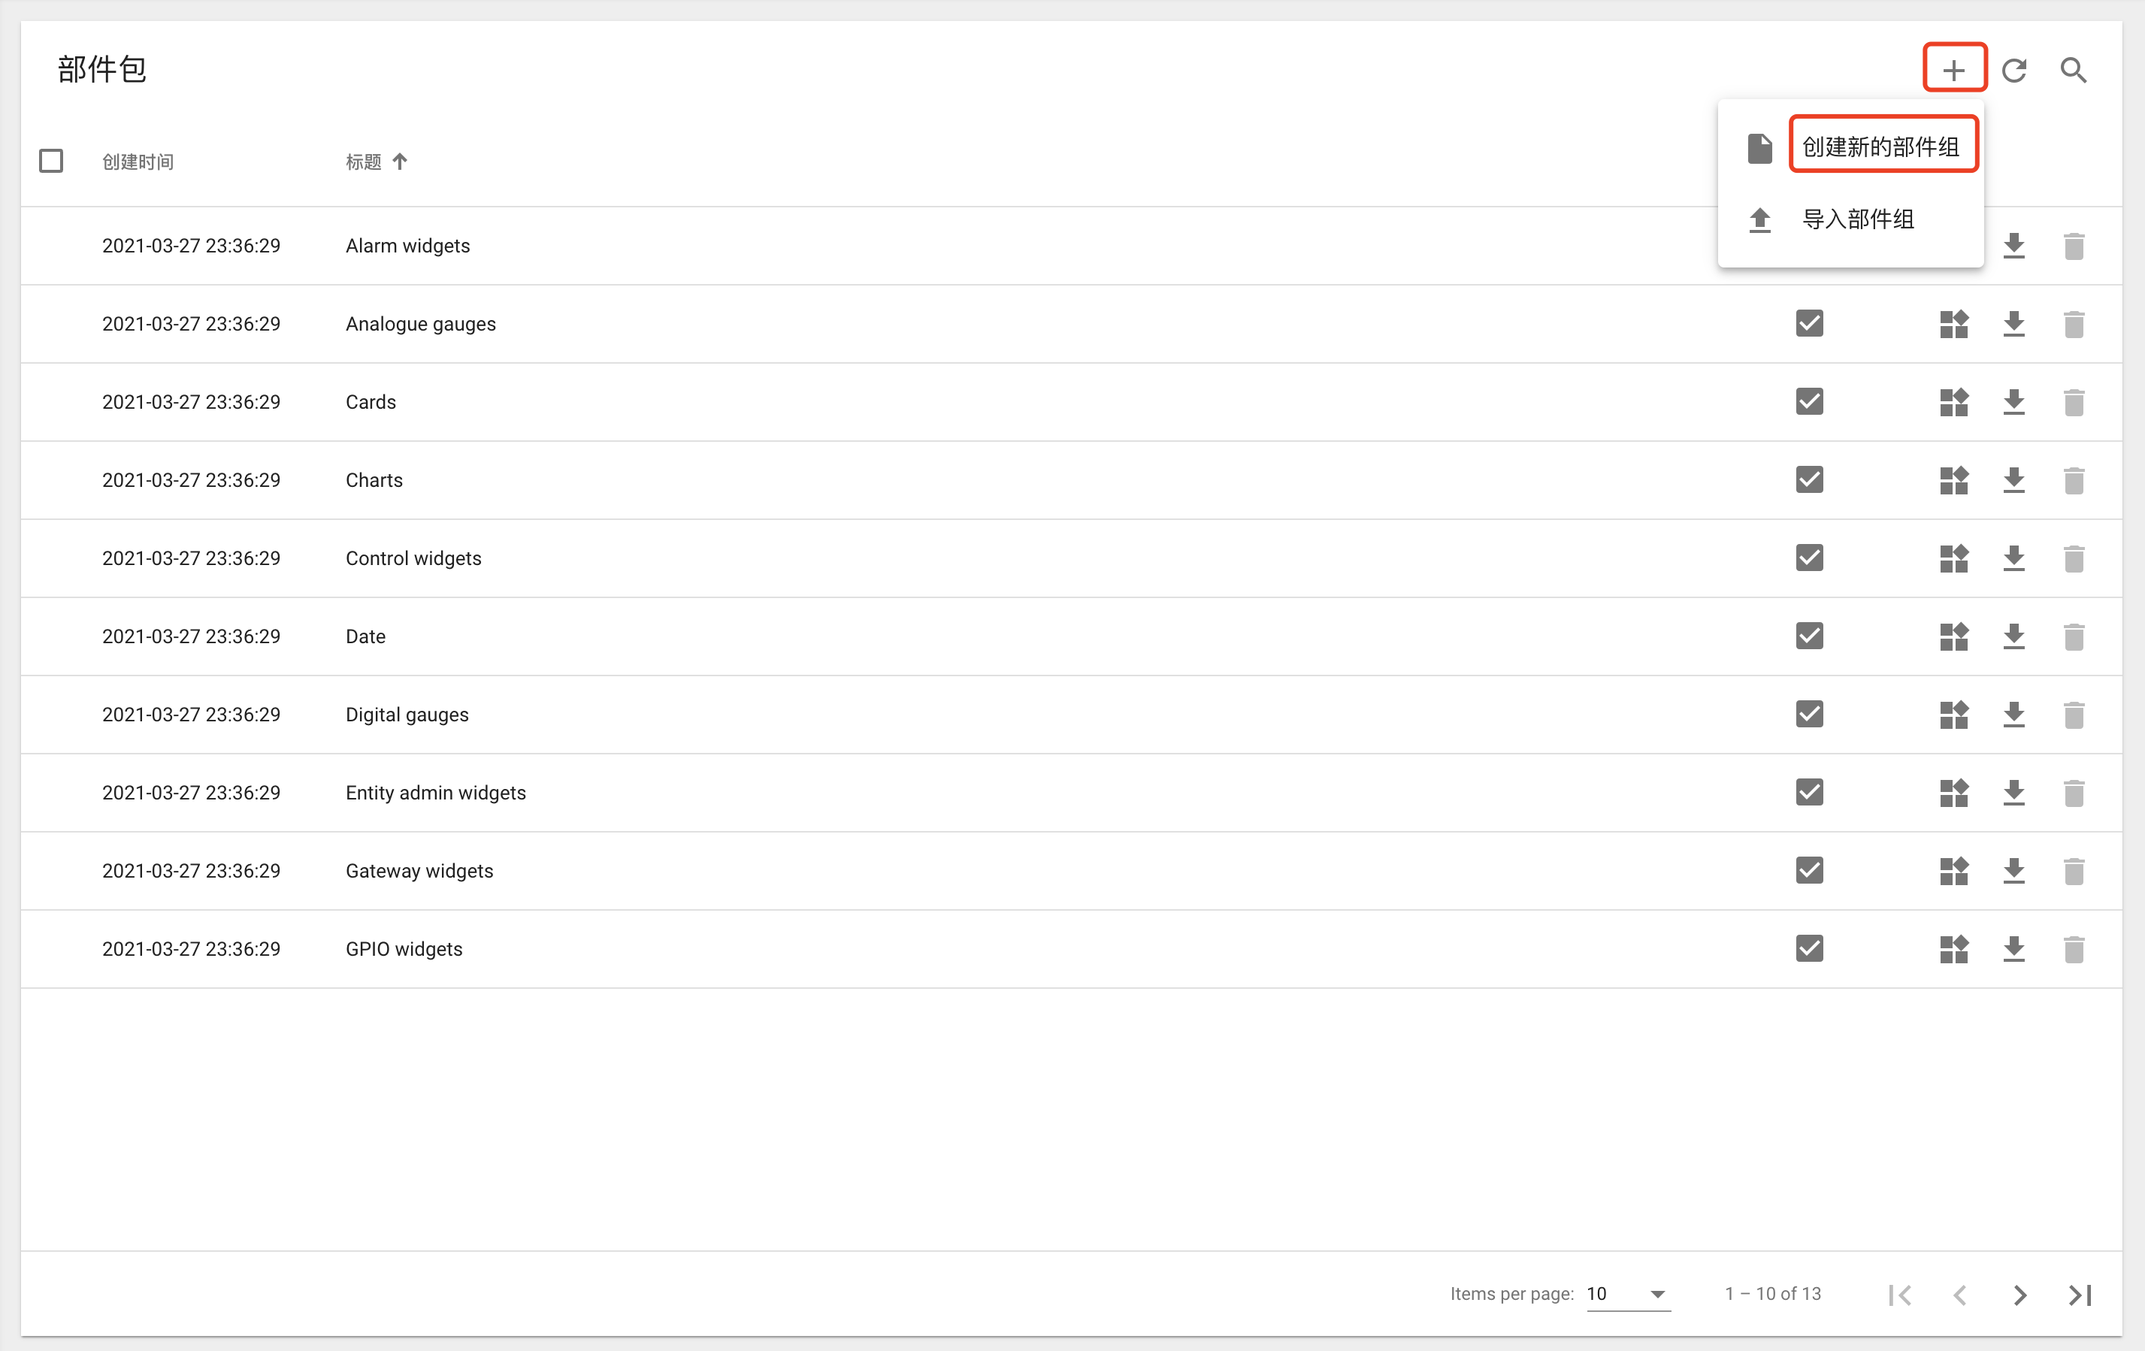
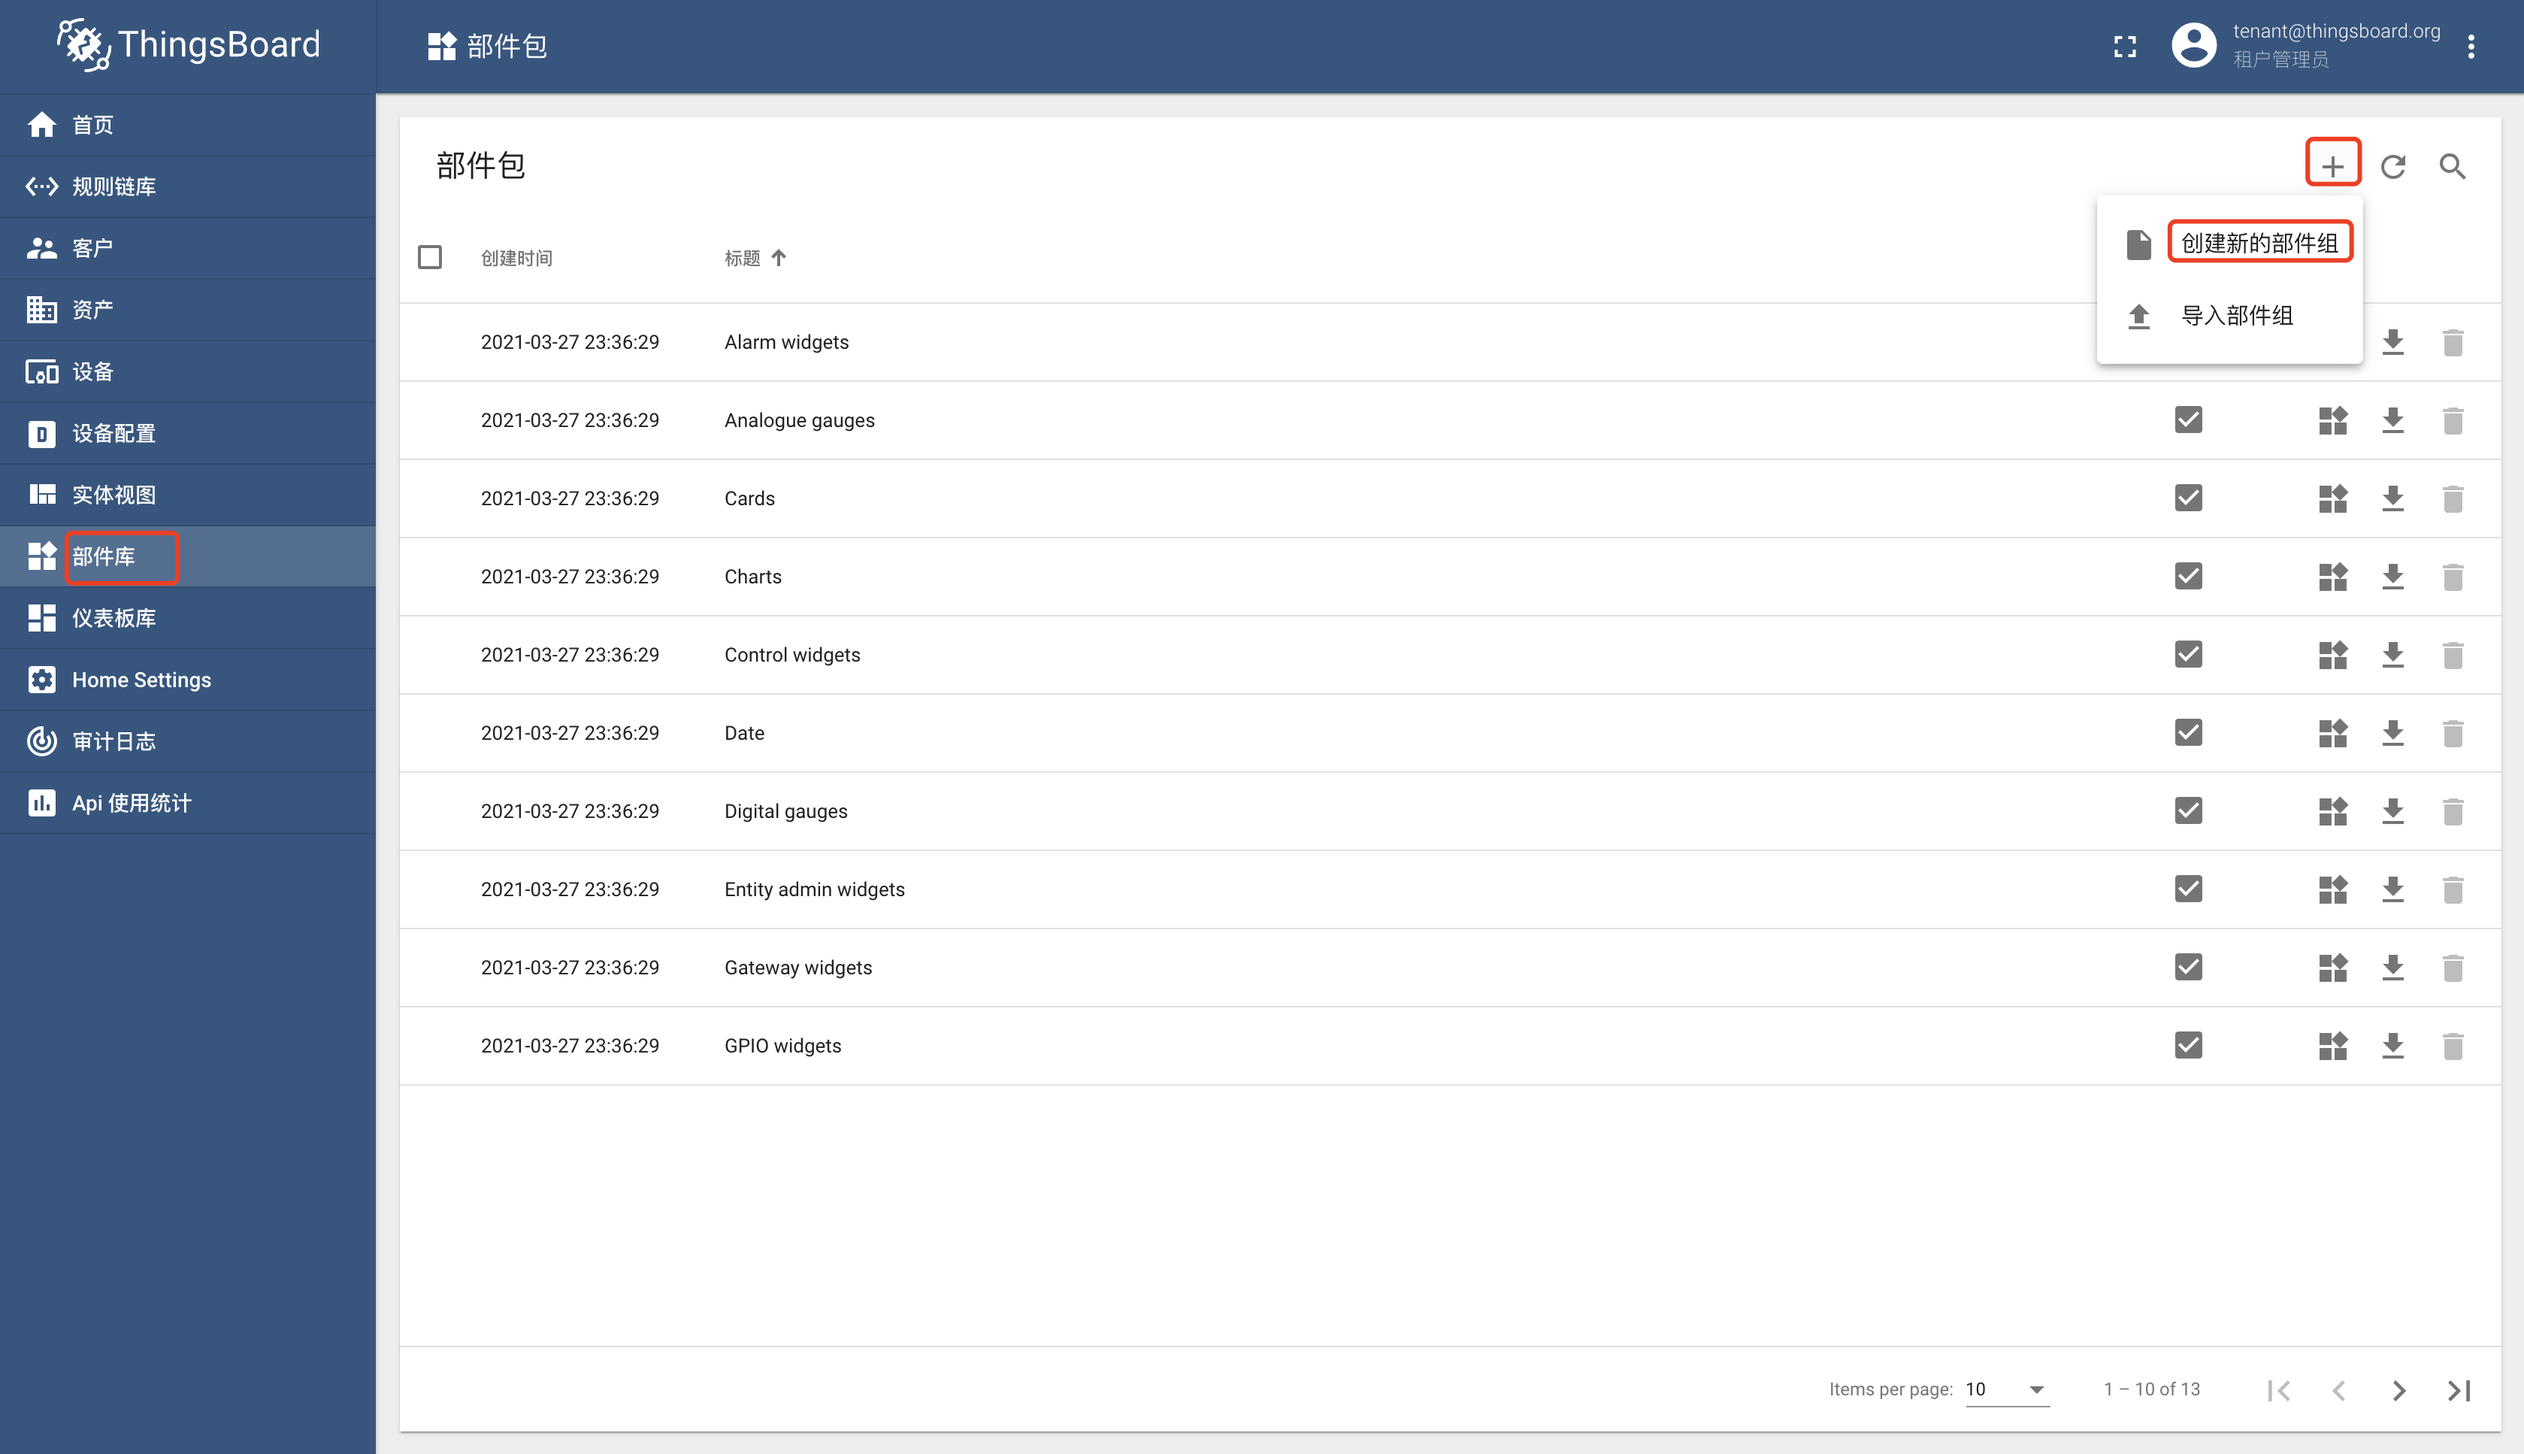
update dashboard md

diff --git a/doc/仪表盘.md b/doc/仪表盘.md
@@ -1,44 +1,78 @@
 #### 环境准备
 
-- 已经编译且能成功运行的代码环境，可参考前作。
+- 已经编译且能成功运行的代码环境，可参考前作
 - IDE Idea或Eclipse，本文使用Idea
+- [MqttBox](http://workswithweb.com/mqttbox.html)，一个Mqtt客户端
 - 支持Html5的浏览器，本文使用Chrome
 
 #### 描述
 
-用于数据展示，使用部件库中部件或自定义部件（需遵循部件开发规范）形成可定制的页面。
+仪表盘用于数据展示，使用部件库中部件或自定义部件（需遵循部件开发规范）形成灵活可定制化页面。
 
 #### 新建
 
+运行程序，使用`tenant@thingsboard.org`账号登录系统，点击左侧菜单`仪表盘库`，点击右上角`+`号，选择`创建新的仪表盘`。
+![仪表盘新建](../image/仪表盘新建.png)
+
+输入标题`我的仪表盘`，点击`添加`按钮。
+![仪表盘添加](../image/仪表盘添加.png)
+
+在仪表盘列表中可以找到仪表盘`我的仪表盘`。
+![仪表盘列表](../image/仪表盘列表.png)
 
 
 #### 编辑
 
-
+单击仪表盘`我的仪表盘`，点击`打开仪表盘`按钮。
+![仪表盘打开](../image/仪表盘打开.png)
+点击右下角`笔形`按钮进入编辑模式。
+![仪表盘编辑打开](../image/仪表盘编辑打开.png)
 
 ##### 数据源添加
 
+参考前作[普通设备](普通设备.md)创建设备`我的设备`，并上传一条时序数据`{temperature:40.21}`。
 
+点击右上角`多终端`按钮，点击`添加别名`按钮，输入别名`我的设备`，选择筛选器类型`单个实体`，选择类型`设备`，选择设备`我的设备`，点击`添加`按钮。
+![仪表盘数据源添加](../image/仪表盘数据源添加.png)
+
+点击`保存`按钮进行保存。
+![仪表盘数据源添加1](../image/仪表盘数据源添加1.png)
 
 ##### 部件添加
 
+点击`添加新的部件`按钮
+![仪表盘部件添加](../image/仪表盘部件添加.png)
 
+在弹出的部件组列表中，选择模拟仪表（Analogue gauges）
+![仪表盘部件添加1](../image/仪表盘部件添加1.png)
+
+选择温度径向计量器Temperature radial gauge
+![仪表盘部件添加2](../image/仪表盘部件添加2.png)
+
+选择实体别名`我的设备`，选择时序数据点`temperature`，点击`添加`按钮。
+![仪表盘部件添加3](../image/仪表盘部件添加3.png)
+
+点击右下角`勾形`按钮进行保存。
+![仪表盘编辑保存](../image/仪表盘编辑保存.png)
+
+现在已经拥有一个展示温度的仪表盘。
 
 #### 授权
+默认情况下，只有租户管理员能看到当前租户下的仪表盘，通过授权，可以给当前租户下的普通客户使用。
+![仪表盘授权](../image/仪表盘授权.png)
 
+#### 公开
+仪表盘可以设置为公开，通过公开链接，可以让无系统访问权限的用户使用仪表盘。
+![仪表盘公开](../image/仪表盘公开.png)
 
-
-
-
-
-
-
-
+#### 删除
+通过`删除仪表盘`按钮，可以完成仪表盘删除。
+![仪表盘删除](../image/仪表盘删除.png)
 
 
 
 
 TIPS
 
+- 仪表盘可以导入导出，格式为json
 - 官方 [仪表盘介绍](https://thingsboard.io/docs/user-guide/dashboards/#introduction)
-- 

diff --git a/doc/部件.md b/doc/部件.md
@@ -6,24 +6,24 @@
 
 #### 描述
 
-部件在仪表盘Dashboard中使用，形成定制化页面用于数据展示。每个部件都提供一项具体的功能，例如数据可视化、远程控制、警报管理以及显示静态自定义html内容。
+部件在仪表盘Dashboard中使用，每个部件都提供一项具体的功能，例如数据可视化、远程控制、警报管理以及显示静态自定义html内容。
 
 #### 部件包
 
 部件包将部件以分组的形式进行管理，3.2版本默认提供13个系统部件组，包含告警组件（Alarm widgets）、模拟仪表（Analogue gauges）、（卡片）Cards、（体表）Charts、（控制）Control widgets、（时间）Date、（数字仪表）Digital gauges、（实体管理）Entity admin widgets、（网关）Gateway widgets、（GPIO）GPIO widgets、（输入）Input widgets、（地图）Maps、（导航）Navigation widgets。
 
-![规则链创建](../image/部件库.png)
+![部件库](../image/部件库.png)
 
 #### 部件组新建
 
-运行程序，使用`tenant@thingsboard.org`账号登录系统，点击右上角`+`号，选择`创建新的部件组。
-![规则链创建](../image/部件组新建.png)
+运行程序，使用`tenant@thingsboard.org`账号登录系统，点击左侧菜单`部件库`，点击右上角`+`号，选择`创建新的部件组`。
+![部件组新建](../image/部件组新建.png)
 
 输入标题`我的部件组`，选择图像（图标，可选），填写描述（可选），点击`添加`按钮。
-![规则链创建](../image/部件组添加.png)
+![部件组添加](../image/部件组添加.png)
 
 在列表中可以找到部件组`我的部件组`，`我的部件组`仅供当前租户使用，如果要新建所有租户都能使用的部件组，需要使用管理员账号（比如`sysadmin@thingsboard.org`）进行新建。
-![规则链创建](../image/部件组列表.png)
+![部件组列表](../image/部件组列表.png)
 
 
 #### 部件
@@ -42,16 +42,25 @@
   
 
 以组件包`charts`为例，进入部件库页面，双击`charts`包，点击`打开部件组`按钮。
-![规则链创建](../image/charts部件包.png)
+![charts部件包](../image/charts部件包.png)
 
 可以看到该包下的所有部件
 
-![规则链创建](../image/charts部件.png)
+![charts部件](../image/charts部件.png)
+
+
+
+#### 部件组删除
+
+通过`删除部件组`按钮，可以删除部件组，租户管理员可以删除本租户下的部件组。
+![部件组删除](../image/部件组删除.png)
+
 
 
 
 #### TIPS
 
+- 部件组以及部件都可以导入导出，格式为json
 - 官方 [部件库使用](https://thingsboard.io/docs/user-guide/ui/widget-library/#introduction) [实体与关联介绍](https://thingsboard.io/docs/user-guide/entities-and-relations/)
 - 部件开发见 [组件扩展](组件扩展.md)
 

diff --git a/README.md b/README.md
@@ -54,8 +54,8 @@
 - 反向控制
 
 #### 部署
-- 整体部署
-- 组件化部署
+- 单片部署 [入口](doc/单片部署.md)
+- 微服务部署 [入口](doc/微服务部署.md)
 
 #### 最佳实践
 - 容器集群
